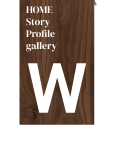
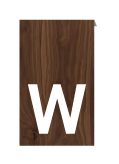
0228

diff --git a/project003/my/css/stlye04.css b/project003/my/css/stlye04.css
@@ -36,6 +36,34 @@ body {width: 100%; font-family: 'DM Serif Display', serif; overflow: hidden }
             background-color: red;
             color: #fff;
         }
+        .book {
+            top: -5%;
+            left: 40%;
+            z-index: 9999;
+            position: fixed;
+            width: 170px;
+            height: 250px;
+            background-image: url(../img/gallery_bookM.png);
+            background-repeat: no-repeat;
+            background-size: 200px;
+        }
+        .book li {
+            width: 50%;
+            height: 9%;
+            margin: 0 auto;
+        }
+        .book li:nth-child(1) {
+            margin-top: 41px;
+        }
+        .book a {
+            text-align: center;
+            color: #fff;
+            font-weight: bold;
+            transition: all 0.3s;
+        }
+        .book li:hover a {
+            color: #DBE20A;
+        }
 
         #wrap {
             margin-top: 2.5%;
@@ -97,7 +125,6 @@ body {width: 100%; font-family: 'DM Serif Display', serif; overflow: hidden }
             transform-origin: right top;
         }
         #wrap > article:nth-child(5) {
-            background-color: #ccc;
             z-index: 3;
         }
         #wrap > article:nth-child(6) {
@@ -113,15 +140,14 @@ body {width: 100%; font-family: 'DM Serif Display', serif; overflow: hidden }
         .box6 h1 {
             box-sizing: border-box;
             width: 100%;
-            height: 30%;
-            padding-top: 50px;
-            padding-left: 50px;
+            height: 20%;
             font-size: var(--main-font);
-            font-weight: bold;
+            padding-left: 50px;
+            padding-top: 25px;
         }
         .box6 h2 {
             box-sizing: border-box;
-            padding-top: 150px;
+            padding-top: 130px;
             width: 100%;
             height: 60%;
             text-align: center;
@@ -344,9 +370,14 @@ body {width: 100%; font-family: 'DM Serif Display', serif; overflow: hidden }
         .img31-01 p {
             text-align: right;
             position: absolute;
-            bottom: 30%;
+            bottom: 20%;
             left: 9%;
-            font: 50px;
+            50: 
+            height: 8%;50px
+            right;
+            position: :nth-child(1) {
+                margin-top: 50px;
+            };
             font-size: 23px;
         }
         .img31-02 {
@@ -388,6 +419,7 @@ body {width: 100%; font-family: 'DM Serif Display', serif; overflow: hidden }
         .box4 {
             flex-wrap: wrap;
             position: relative;
+            overflow: hidden;
         }
         .box4 h1 {
             font-weight: bold;
@@ -403,7 +435,7 @@ body {width: 100%; font-family: 'DM Serif Display', serif; overflow: hidden }
             flex-wrap: wrap;
             width: 90%;
             margin: 0 auto;
-            height: 80%;
+            height: 75%;
         }
         .img32-01 li {
             position: absolute;
@@ -442,7 +474,7 @@ body {width: 100%; font-family: 'DM Serif Display', serif; overflow: hidden }
             height: 265px;
         }
         .img32-01 li:nth-child(6) {
-            bottom: 0;
+            bottom: -0.5%;
             left: 24.2%;
             width: 250px;
             height: 311px;
@@ -465,45 +497,101 @@ body {width: 100%; font-family: 'DM Serif Display', serif; overflow: hidden }
             width: 363px;
             height: 232px;
         }
+        .img32-01 li:nth-child(10) {
+            position: absolute;
+            z-index: -1;
+            right: -20%;
+            top: -20%;
+            width: 200px;
+            height: 200px;
+            background-color: #F03402;
+            border-radius: 100%;
+        }
+        .img32-01 li:nth-child(11) {
+            position: absolute;
+            z-index: -1;
+            left: -10%;
+            bottom: -20%;
+            width: 300px;
+            height: 300px;
+            background-color: #F03402;
+            border-radius: 100%;
+        }
+        .img32-01 li:nth-child(12) {
+            position: absolute;
+            z-index: -1;
+            left: 25%;
+            top: -22%;
+            width: 80px;
+            height: 80px;
+            background-color: #F03402;
+            border-radius: 100%;
+        }
+        .img32-01 li:nth-child(13) {
+            position: absolute;
+            left: 55%;
+            top: 48%;
+            width: 100px;
+            height: 100px;
+            background-color: #F03402;
+            border-radius: 100%;
+        }
         /* box5 설정 */
         .box5 {
             display: flex;
             flex-wrap: wrap;
         }
         .box5 h1 {
-            text-align: center;
+            text-align: right;
+            padding: 30px;
+            margin-left: 230px;
+            background-color: #A34F4F;
+            color: #fff;
             font-size: 60px;
-            width: 100%;
-            padding-top: 200px;
         }
-        .box5 .img4 {
+        .box5 .img5 {
             position: relative;
             width: 50%;
             height: 70%;
         }
-        .box5 .img4 img {
-            margin: 80px;
-            width: 300px;
-            height: 500px;
+        .box5 .img5 img {
+            margin: 70px;
+            width: 279px;
+            height: 397px;
             background-color: #fff;
         }
-        .box5 .img4 p {
+        .box5 .img5 p {
+            width: 320px;
+            text-align: center;
+            padding: 20px;
             position: absolute;
-            left: 18%;
-            top: 5%;
+            left: 0%;
+            bottom: 0;
             font-size: 30px;
+            background-color: #A34F4F;
+            color: #fff;
+            font-weight: bold;
         }
-        .box5 .txt4 {
+        .box5 .txt5 {
             width: 50%;
             height: 70%;
+            position: relative;
         }
-        .box5 .txt4 p {
+        .box5 .txt5 p {
             width: 100%;
-            font-size: 25px;
-            padding-top: 200px;
+            font-size: 18px;
+            padding-top: 220px;
+            color: #2D7592;
+            font-weight: bold;
         }
-        .box5 .txt4 h2 {
+        .box5 .txt5 h2 {
             width: 100%;
-            font-size: 40px;
-            padding-top: 50px;
+            font-size: 26px;
+            padding-top: 60px;
+            color: #2D7592;
+        }
+        .box5 .txt5 img {
+            position: absolute;
+            top: -20%;
+            left: -50%;
         }

diff --git a/project003/my/index04.html b/project003/my/index04.html
@@ -73,18 +73,23 @@
                         <li><img src="img/galleryP5_Img07.png" alt=""></li>
                         <li><img src="img/galleryP5_Img08.png" alt=""></li>
                         <li><img src="img/galleryP5_Img09.png" alt=""></li>
+                        <li></li>
+                        <li></li>
+                        <li></li>
+                        <li>8</li>
                 </div>
             </article>
             <article class="box5">
                 <h1>반지 작가의 다른 작품</h1>
-                <span class="img4">
-                    <img src="" alt="">
+                <span class="img5">
+                    <img src="IMG/galleryP6_Img01.png" alt="">
                     <p><신비></p>
                 </span>
-                <span class="txt4">
+                <span class="txt5">
                     <p>긴 잠에서 깨어난 미지의 생명체 신비와 <br>
                         그녀를 사랑하게 된 가람의 사랑 이야기</p>
                     <h2>"나의 뮤즈가 되어 줄래?"</h2>
+                    <img src="img/galleryP6_bg.png" alt="">
                 </span>
             </article>
             <article class="box6">
@@ -93,7 +98,12 @@
                 <h3>1</h3>
             </article>
             <h1 class="right">right</h1>
-            <img class="book" src="img/gallery_bookM.png" alt="">
+            <ul class="book">
+                <li><a href="#">HOME</a></li>
+                <li><a href="#">Story</a></li>
+                <li><a href="#">Profile</a></li>
+                <li><a href="#">gallery</a></li>
+            </ul>
         </section>
     </body>
 </html>
